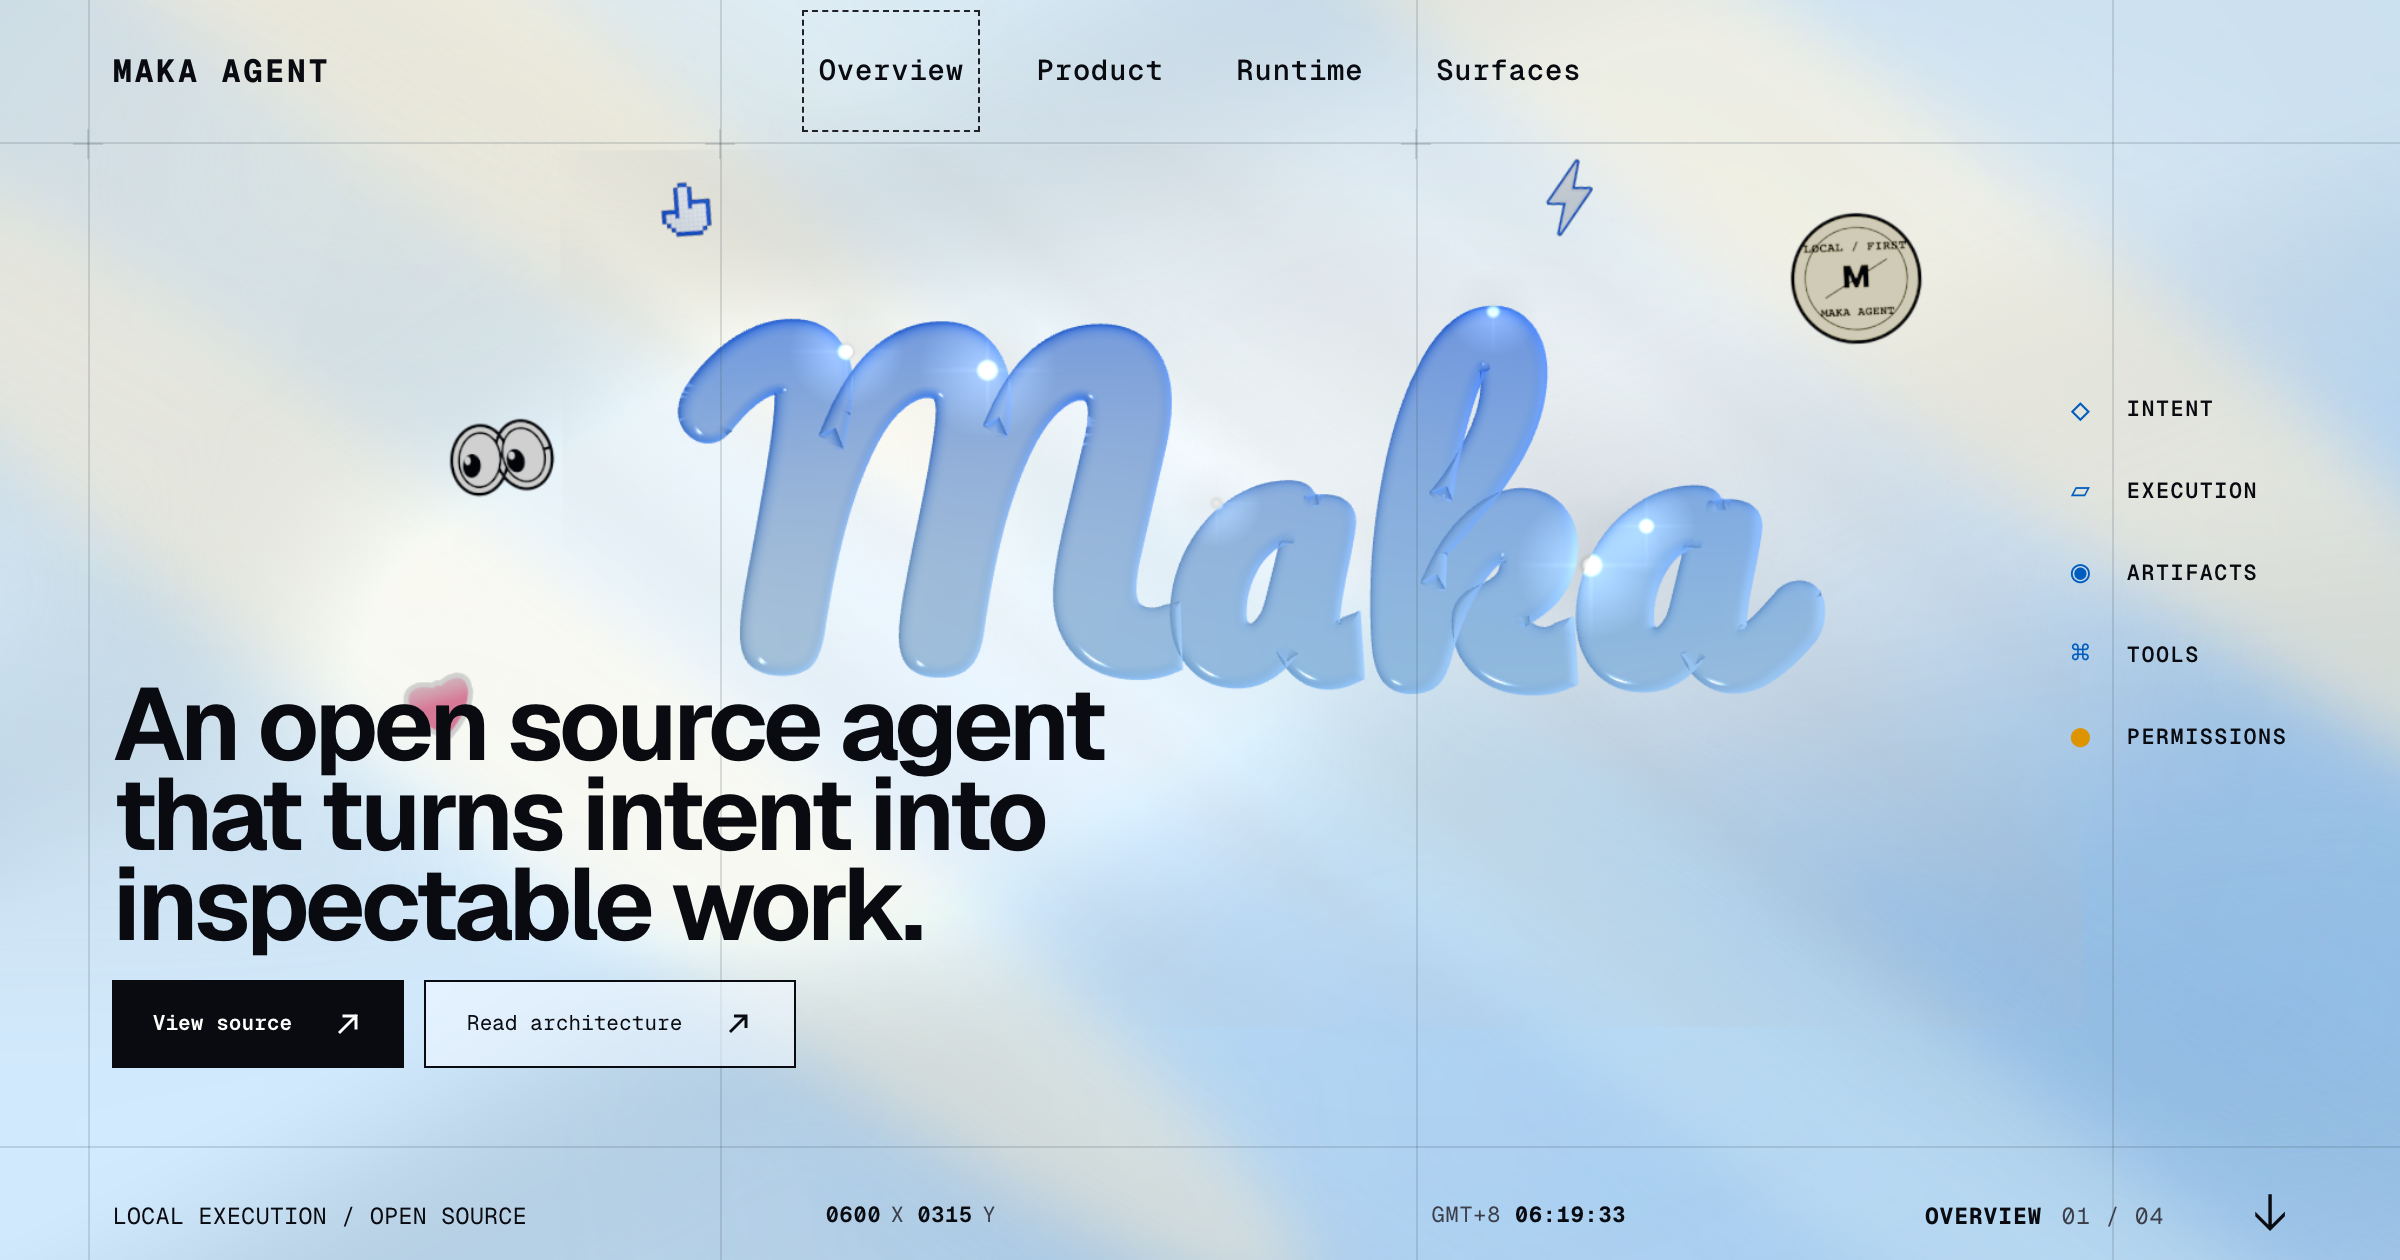
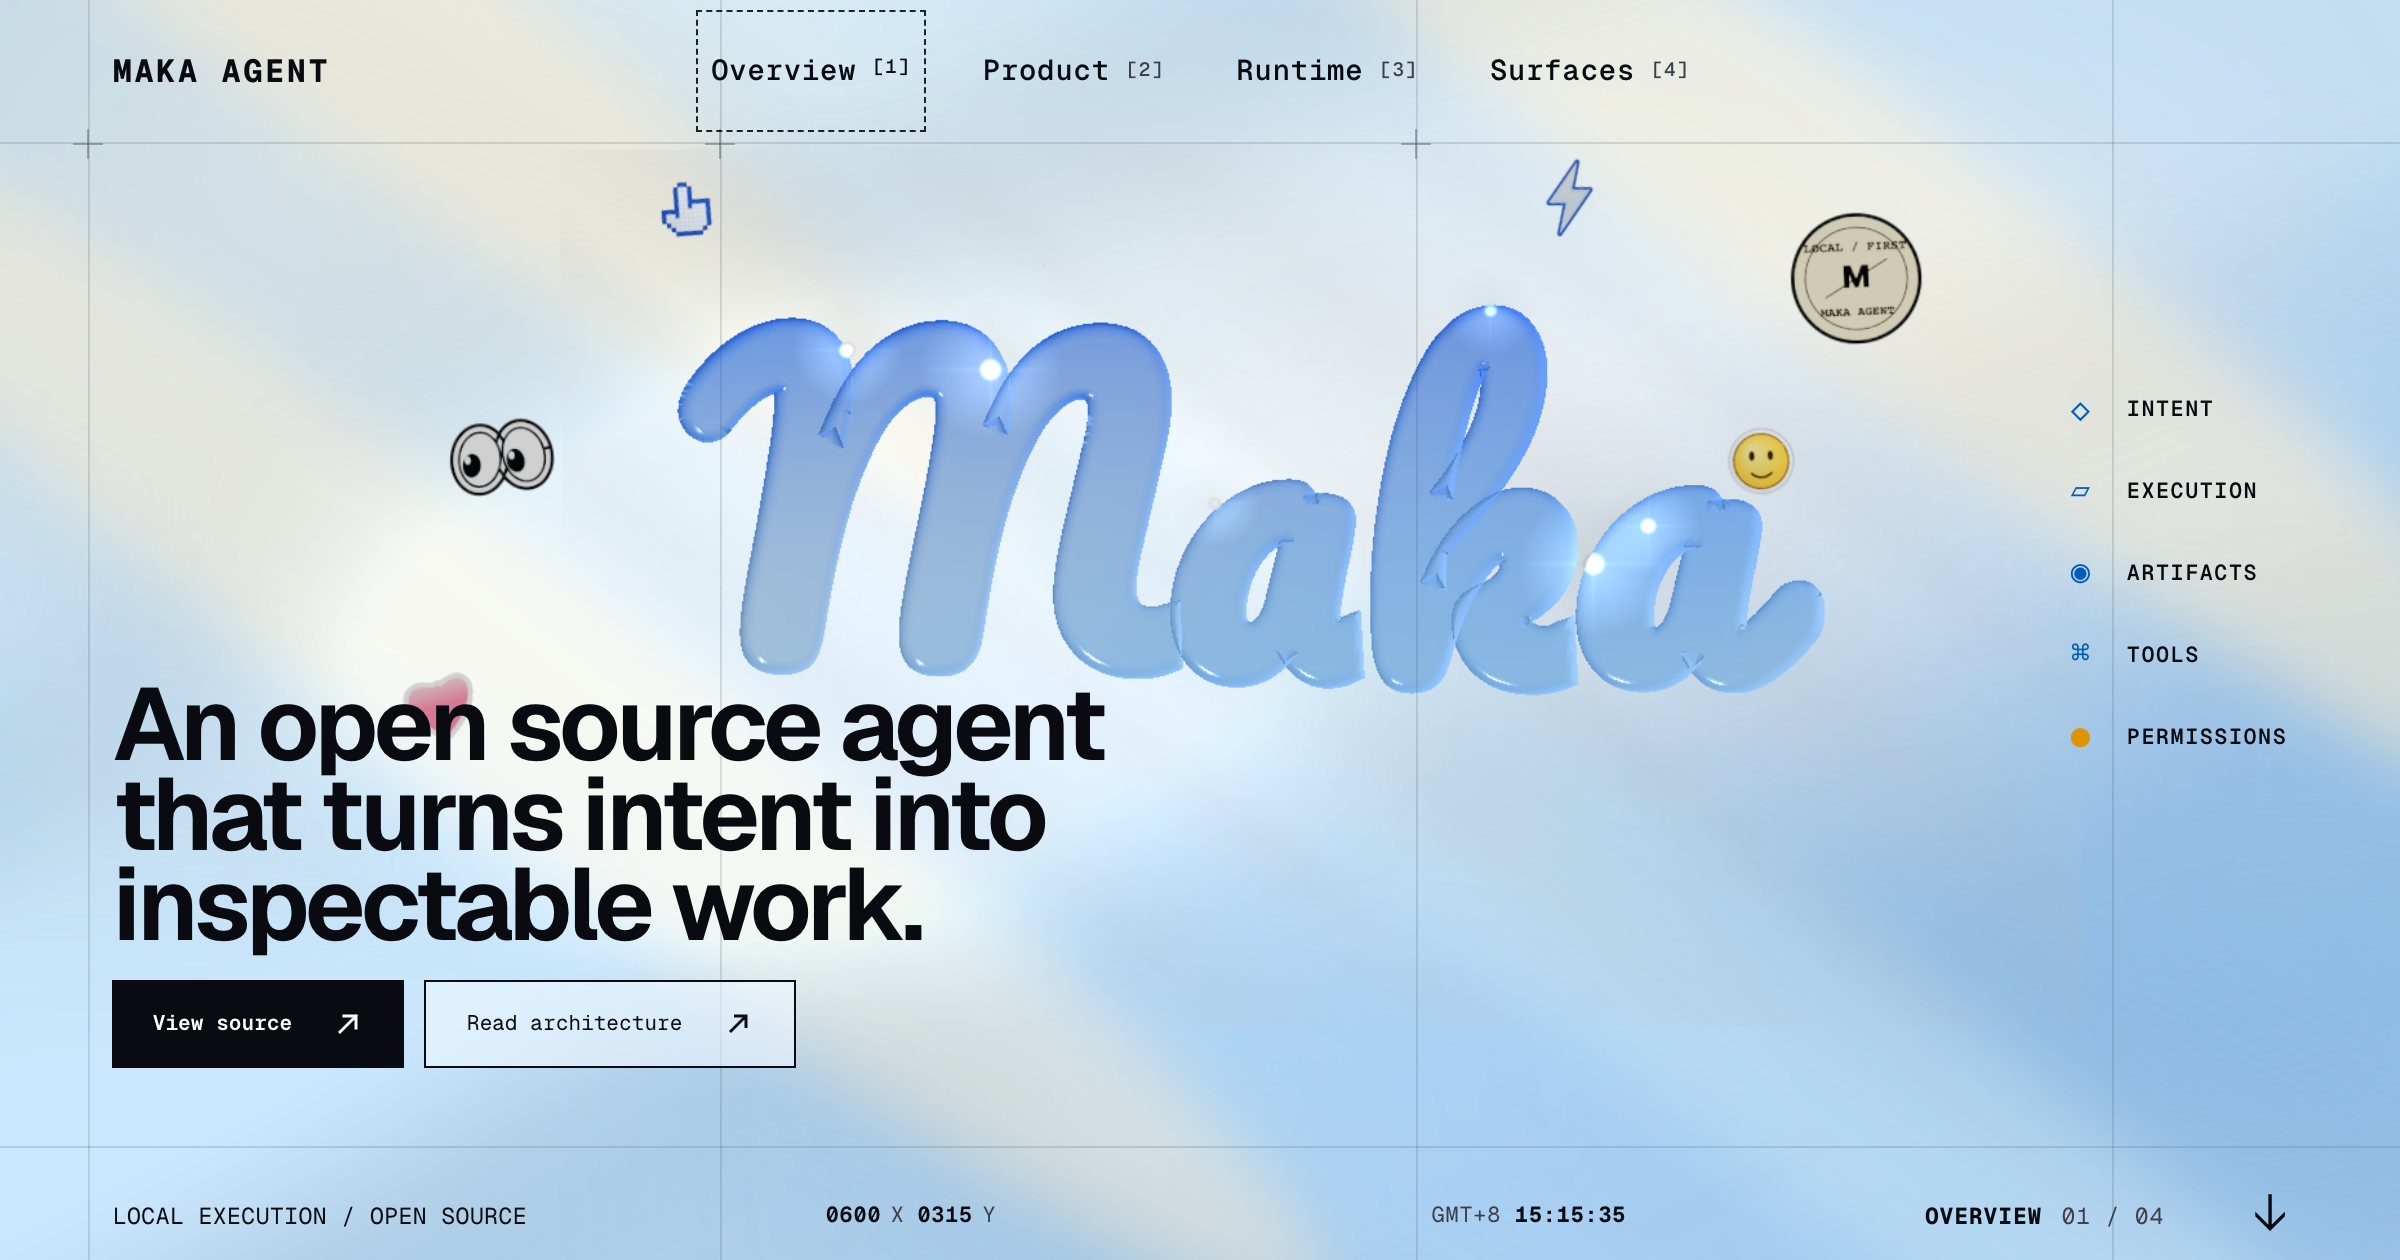
loop-r24: refresh the share card, snapshot the implementation
- og.png recaptured after five rounds of visual change (saturation
  calibration, smiley, fiducial crosses, key hints) — the share card
  now shows the shipped hero
- REFERENCE_STUDY.md gains a dated implementation snapshot marking
  which logged approaches were superseded and what actually ships:
  outline-extruded glass wordmark, measured palette, crafted surfaces,
  instrument shell grammar, ambient life, and the power ladder

Changed region(s): [[0.2812, 0.031, 0.5, 0.0619], [0.5938, 0.031, 0.6875, 0.0619], [0.7188, 0.3405, 0.75, 0.4024]]

diff --git a/REFERENCE_STUDY.md b/REFERENCE_STUDY.md
@@ -223,3 +223,34 @@ execution semantics truthful; visual distance from the reference is not a goal.
   palette process selects a related hue for product reasons.
 - Do not ship a fake terminal aesthetic. Any technical data shown on the Maka
   page must correspond to an actual product capability or architecture fact.
+
+## Implementation snapshot — 2026-07-24
+
+The sections above are a working log; several intermediate approaches they
+describe were superseded. Current state of the build:
+
+- **Wordmark** — per-letter Pacifico bezier outlines (generated into
+  `src/scripts/maka-letter-paths.ts`; interior letters polygon-clipped at
+  0.985× advance to amputate cross-letter exit tails, counters preserved via
+  even-odd clipping), extruded with a deep round bevel and rendered by a
+  custom screen-space-refraction glass shader. Shader constants come from
+  pixel measurements of the reference render (documented in this file):
+  near-uniform powder sky, rim- and arc-carried blue, warm transmitted
+  bands, 0.025 refraction grain. The pixel-skeleton tube pipeline described
+  earlier is retired.
+- **Field calibration** — whole-frame saturation histogram matched to the
+  reference (0.469 vs 0.496); composition split (white/blue/mid) verified
+  identical at 6/80/14.
+- **Crafted surfaces** — the site ships zero product photography: the
+  Product task window, its evidence cards, and the Surfaces desktop
+  miniature are hand-built DOM with real product semantics.
+- **Shell grammar** — dashed instrument frames (nav, evidence tabs, 404
+  actions), [1]-[4] key hints, fiducial grid crosses, footer telemetry row
+  (pointer coordinates, GMT stamp, view status).
+- **Life** — per-letter float, steady star glints, pointer sparkle wake,
+  companion arrow, sticker cast with hover wiggle (eyes, heart, seal, pixel
+  hand, frosted bolt, yellow smiley), pixel-block decode finale, theme
+  cross-fade driven by one damped night mix.
+- **Power ladder** — hero renders full-rate while interacting, half-rate
+  after 8s of ambient idle, and parks entirely off the Overview stage;
+  `data-power` exposes the state for tests.